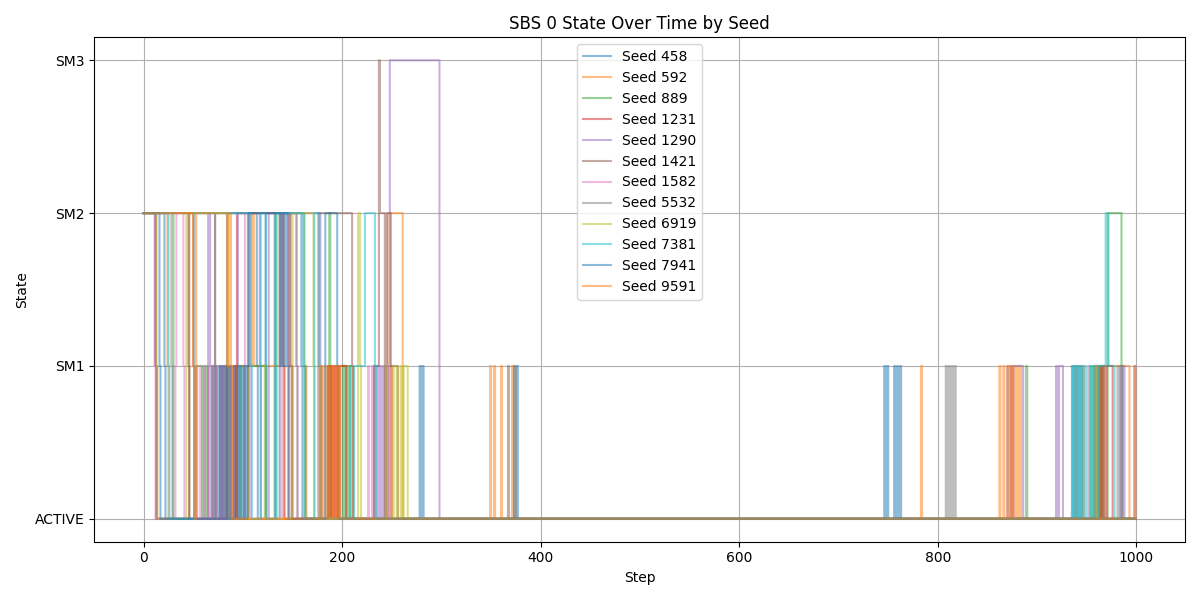
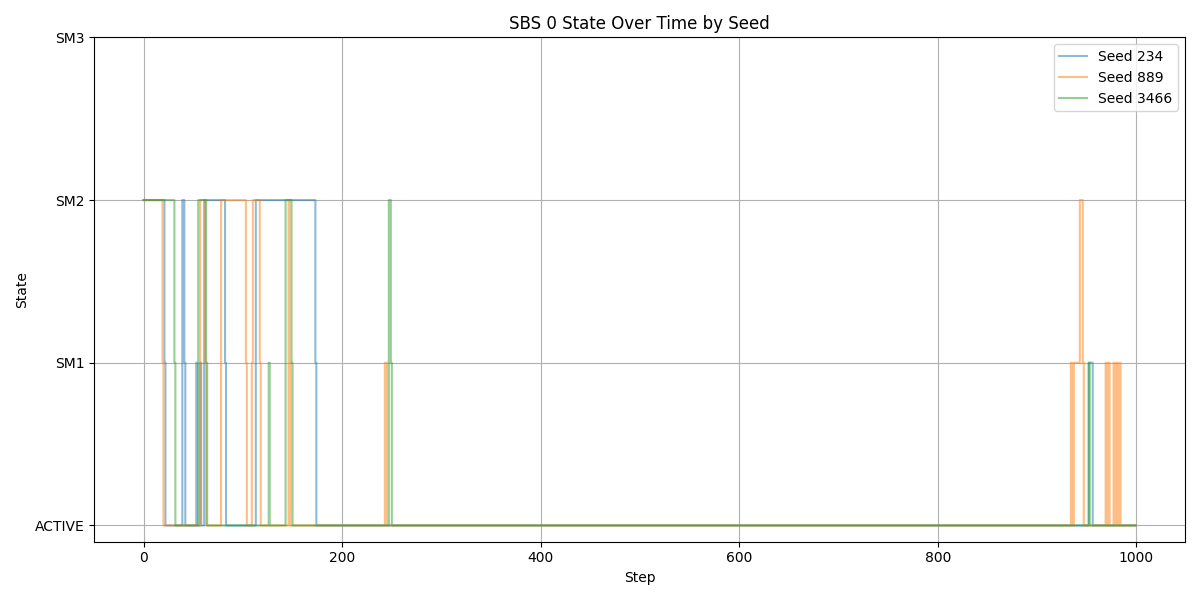
changed packet size and number of packets for EE calculation

diff --git a/test_policy.py b/test_policy.py
@@ -9,7 +9,7 @@ MAX_STEPS = 1000
 N_AGENTS = 3
 STATE_DIM_PER_AGENT = 5
 ACTION_DIM = 4
-SEEDS = [889, 7381, 592, 7941, 1231, 1582, 9591, 5532, 1421, 6919, 1290, 458]  # different test seeds
+SEEDS = [889, 234, 3466]  # different test seeds
 SIM_TIME = 10
 PACKET_INTERVAL = 0.05
 PACKET_SIZE_BYTES = 1024
@@ -218,6 +218,28 @@ if __name__ == "__main__":
 
     except Exception as e:
         print("❌ Failed to generate comparison plot:", e)
+
+    # === Plot Active UE Count Per Step ===
+    try:
+        print("📈 Plotting Active UE Count per Hour...")
+        test_active_ue = np.load("test_active_ue_per_step.npy", allow_pickle=True)
+
+        plt.figure(figsize=(10, 6))
+        for i, ue_counts in enumerate(test_active_ue):
+            steps = len(ue_counts)
+            hours = np.linspace(0, 24, steps)  # Map 0–1000 steps to 0–24 hours
+            plt.plot(hours, ue_counts, label=f'Seed {i+1}', alpha=0.6)
+
+        plt.title("Active UE Count over Simulated 24 Hours")
+        plt.xlabel("Hour of Day")
+        plt.ylabel("Number of Active UEs")
+        plt.grid(True)
+        plt.legend(loc="upper right", fontsize="small")
+        plt.tight_layout()
+        plt.savefig("active_ue_count_per_hour.png")
+        print("✅ Saved: 'active_ue_count_per_hour.png'")
+    except Exception as e:
+        print("❌ Failed to plot Active UE Count:", e)
 
     # Run post-analysis script
     import subprocess

diff --git a/fast_ddqn_multiagent.py b/fast_ddqn_multiagent.py
@@ -23,8 +23,8 @@ ACTION_DIM = 4
 # Environment parameters
 NUM_UES = 30
 SIM_TIME = 10
-PACKET_INTERVAL = 0.05
-PACKET_SIZE_BYTES = 1024
+PACKET_INTERVAL = 0.02778  # 36 packets per second
+PACKET_SIZE_BYTES = 1400
 
 class FastDDQNAgent:
     def __init__(self, state_size, action_size, agent_id):
@@ -397,6 +397,10 @@ if __name__ == "__main__":
 
     os.environ["NS3_BASELINE"] = "0"
 
+    packets_per_ue = SIM_TIME / PACKET_INTERVAL
+    total_packets = packets_per_ue * NUM_UES
+    total_bits = total_packets * PACKET_SIZE_BYTES * 8
+    
     # === Save energy results ===
     np.save("rl_energy_per_episode.npy", np.array(total_energy_per_episode))
     np.save("rl_energy_per_episode.npy", np.array(total_power_per_episode))
@@ -467,9 +471,7 @@ if __name__ == "__main__":
     plt.savefig("energy_efficiency_comparison.png")
     plt.show()
 
-    packets_per_ue = SIM_TIME / PACKET_INTERVAL
-    total_packets = packets_per_ue * NUM_UES
-    total_bits = total_packets * PACKET_SIZE_BYTES * 8
+
     ee_per_episode = [total_bits / energy for energy in total_energy_per_episode]
 
 
